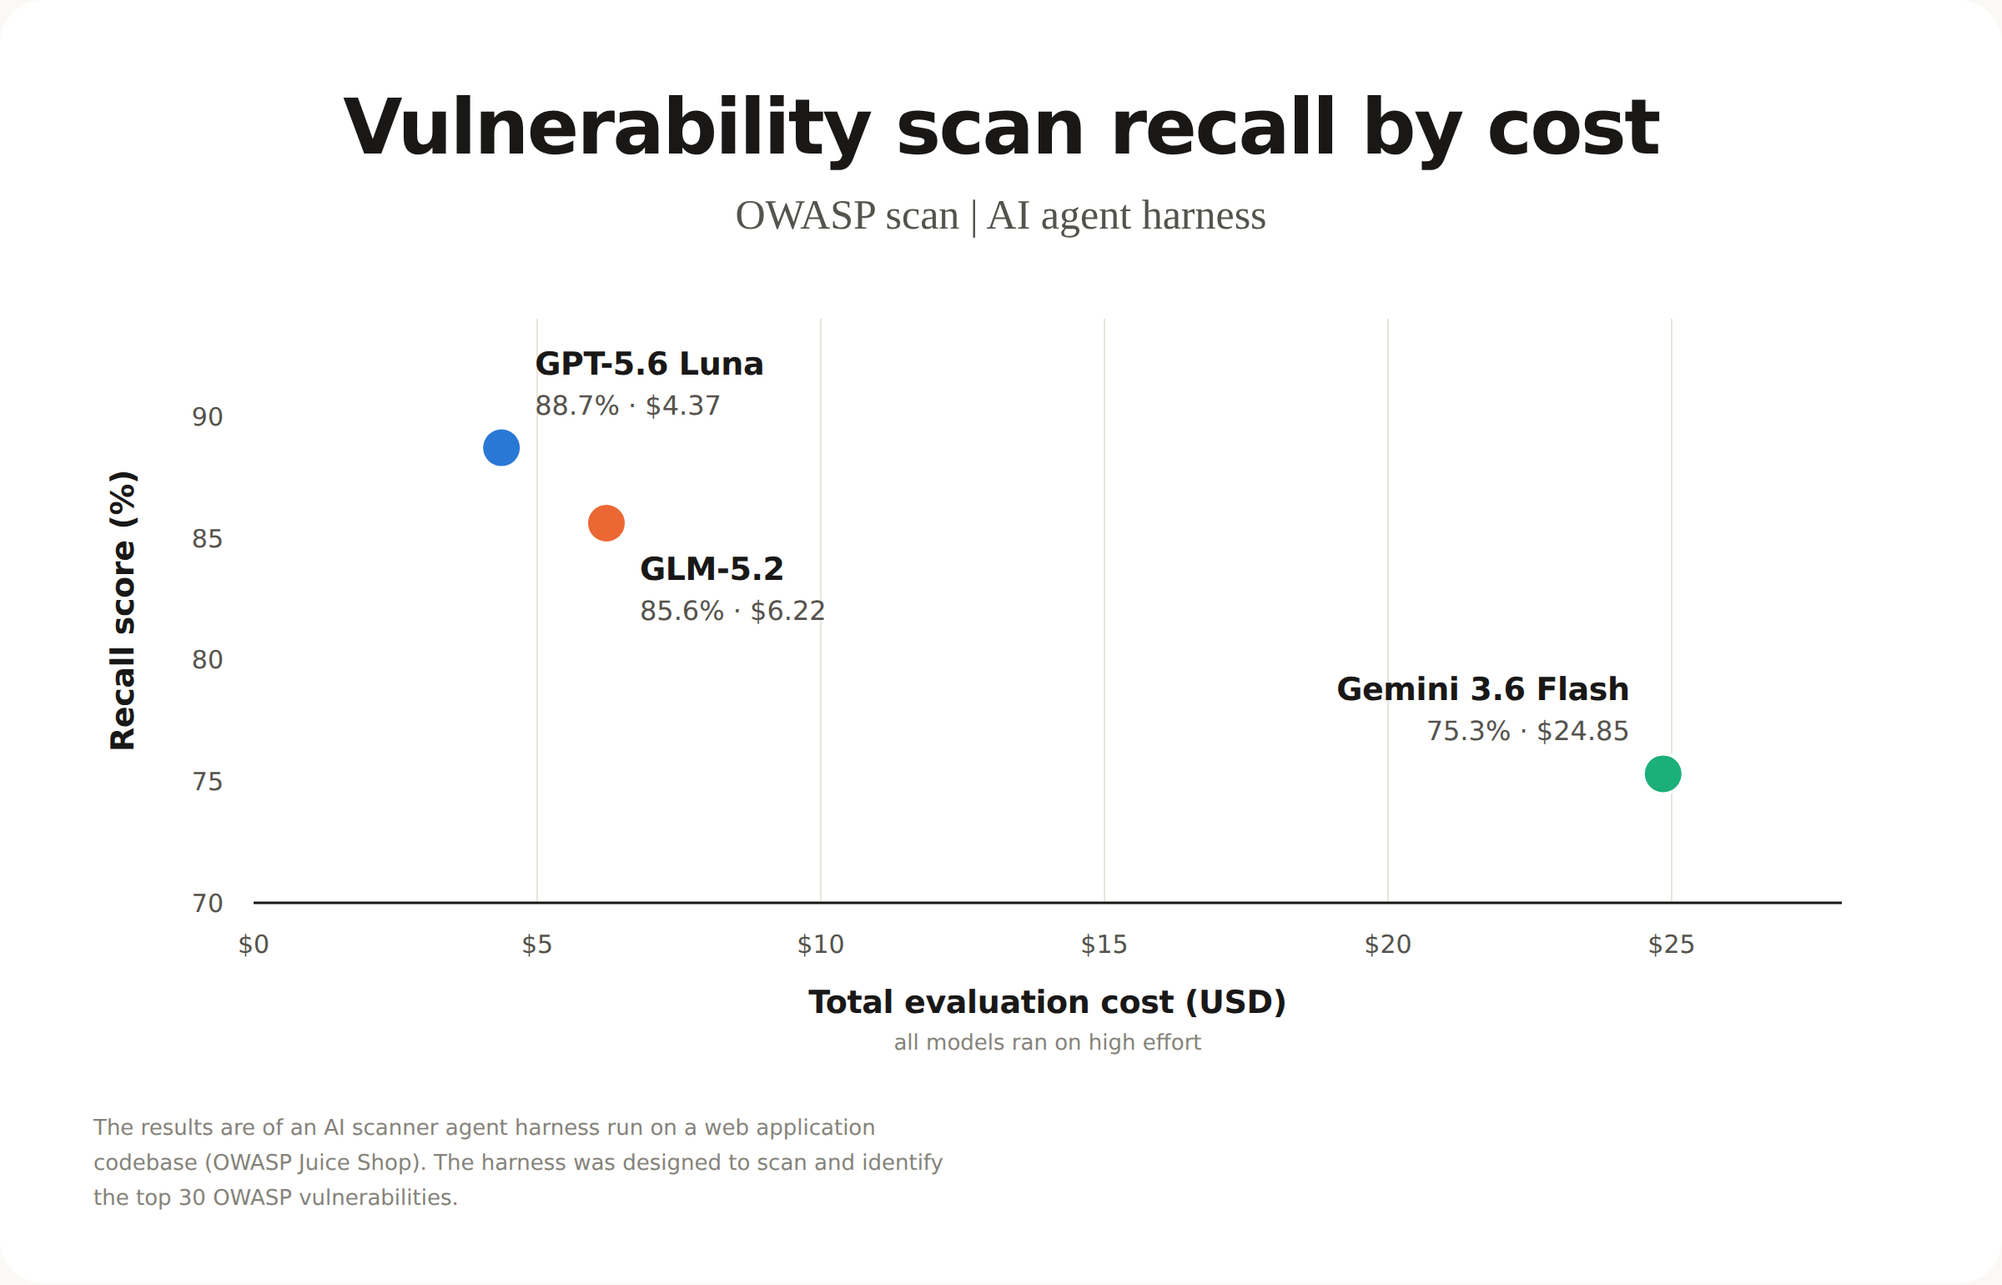
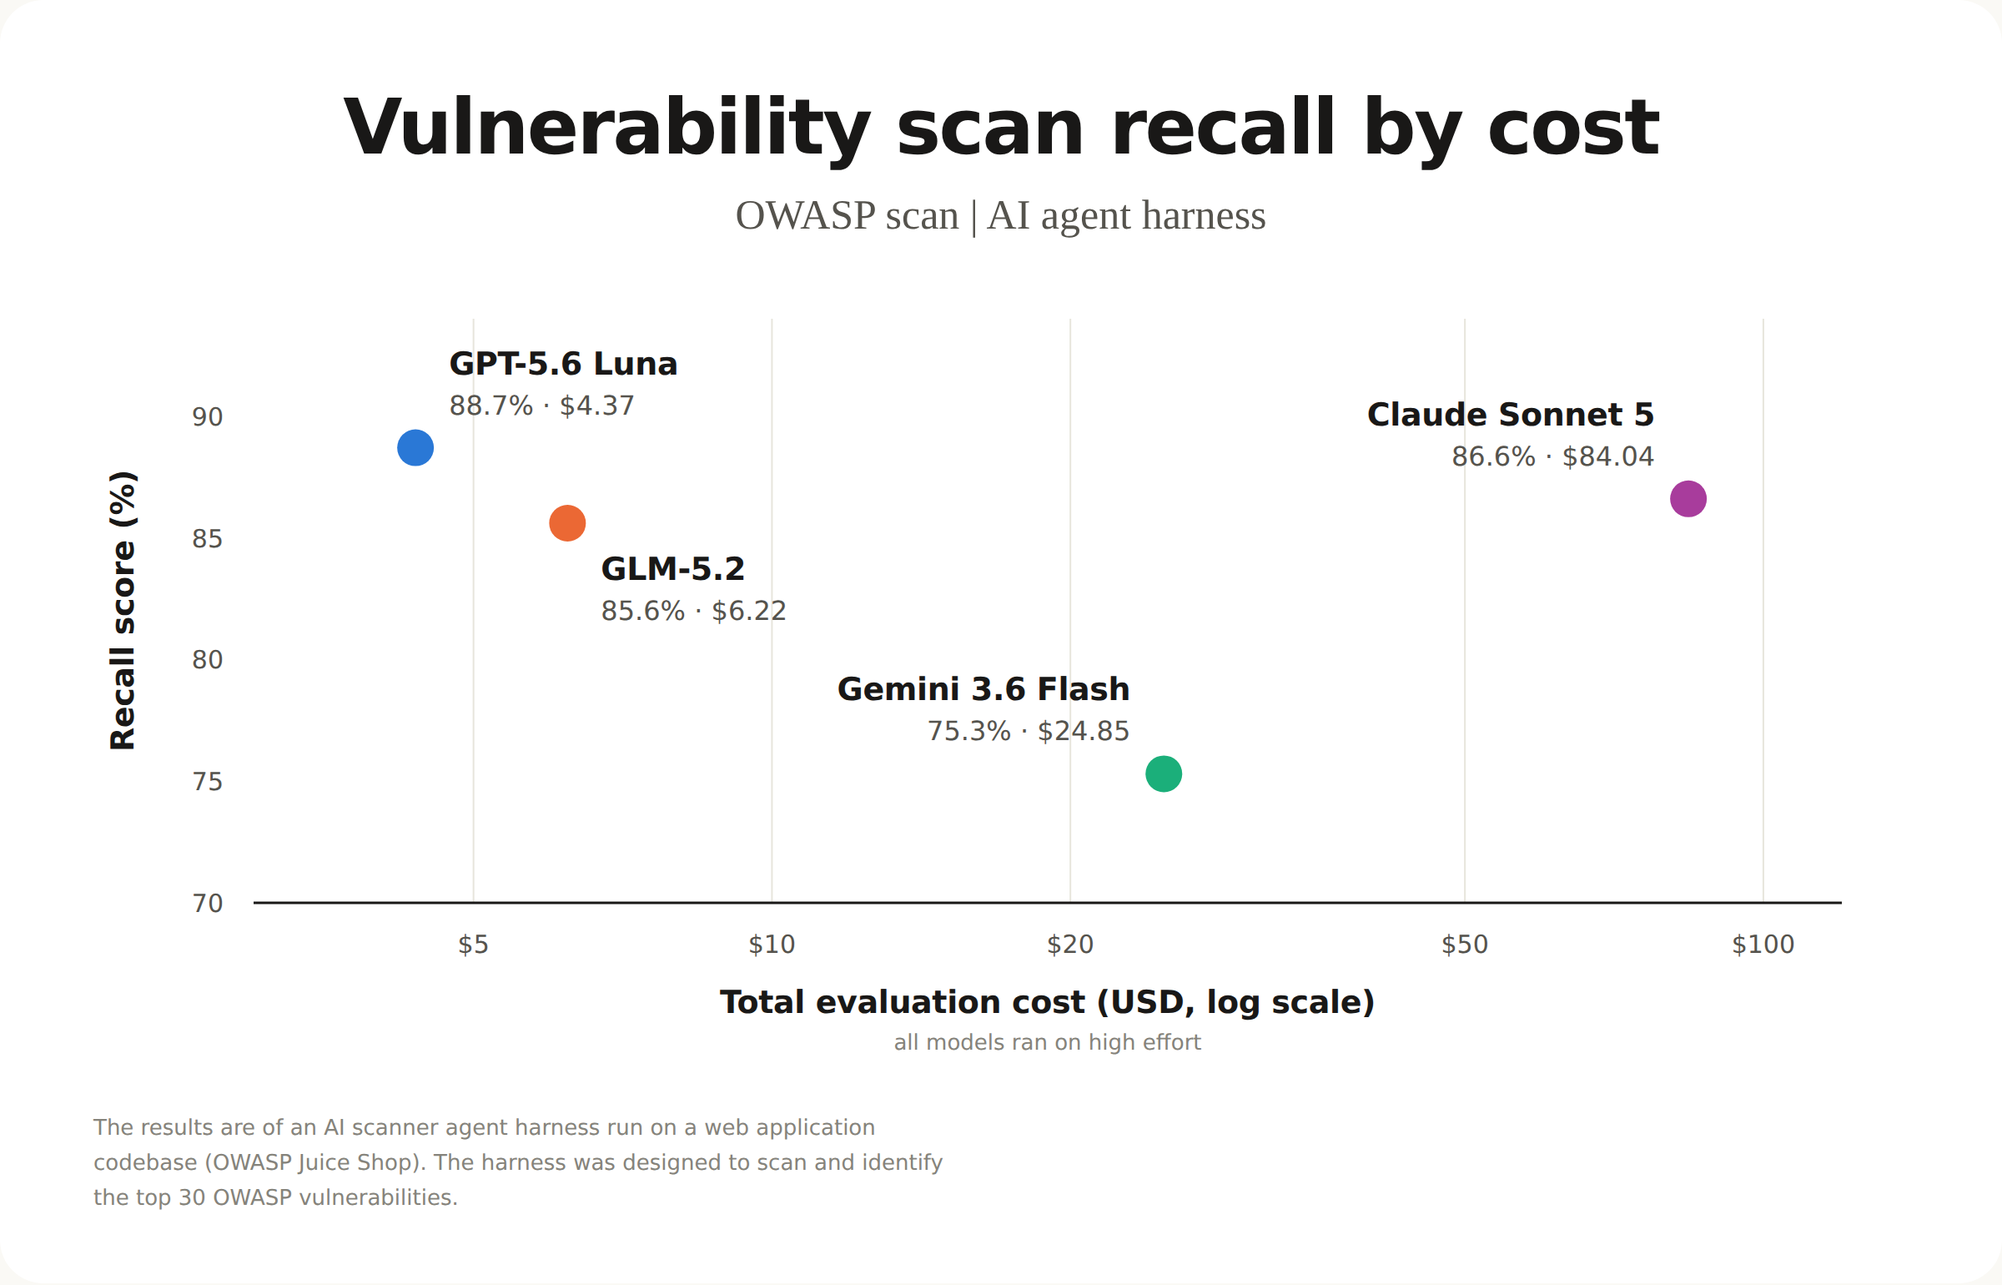
docs: add Claude Sonnet 5 to the recall-by-cost figure
Fourth point: 86.6% localization (84/97) at $84.04, $0.866 per
vulnerability. Ranks second on recall and last on cost efficiency.

Chart changes forced by the new point:
- Cost axis switched to log, and the axis label now says so. The four
  runs span $4.37 to $84.04; on the previous linear axis Luna and
  GLM-5.2 land 19px apart and their marks overlap.
- Fourth colour slot added. Blue/orange/aqua plus a fourth hue fails the
  all-pairs CVD gate in dark mode for every candidate in the documented
  ramp set, so the slot is #a83c9c light / #c45fb5 dark, both verified
  all-pairs-clean in their own mode against the other three.

UNRESOLVED, and flagged in post.md rather than smoothed over: the
$84.04 does not reconcile against the run's own cli-usage.jsonl.

Tokens do reconcile, exactly: 17,528,930 input (8,552,056 cache-read,
8,974,346 cache-write, 2,528 uncached) and 5,569,453 output, 23,098,383
total, matching the recorded row to the token.

Cost gives three different answers from the same artifact:
  $84.04   recorded in benchmarking-results.md — what the figure plots
  $79.85   registry rates applied to the artifact's own token split
  $139.96  the CLI's per-call costUSD fields, summed, Sonnet component

The recorded row also counts only the Sonnet 5 component. The CLI
transport additionally spent 4,143,486 input / 9,435 output tokens on
claude-haiku-4-5 ($4.19 by the CLI's own accounting), real spend on this
run that is not in the row. CLI total including it: $144.15.
[…]

diff --git a/docs/comms/linkedin-2026-08/recall-by-cost.html b/docs/comms/linkedin-2026-08/recall-by-cost.html
@@ -20,6 +20,7 @@
     --series-1:       #2a78d6;
     --series-2:       #eb6834;
     --series-3:       #1baf7a;
+    --series-4:       #a83c9c;
 
     --sans: ui-sans-serif, system-ui, -apple-system, "Segoe UI", Helvetica, Arial, sans-serif;
     --serif: "Iowan Old Style", "Palatino Linotype", Palatino, Georgia, "Times New Roman", serif;
@@ -42,6 +43,7 @@
       --series-1:       #3987e5;
       --series-2:       #d95926;
       --series-3:       #199e70;
+      --series-4:       #c45fb5;
     }
   }
   :root[data-theme="dark"] .viz-root {
@@ -56,6 +58,7 @@
     --series-1:       #3987e5;
     --series-2:       #d95926;
     --series-3:       #199e70;
+    --series-4:       #c45fb5;
   }
 
   .stack { max-width: 1240px; margin: 0 auto; padding: 28px 20px 64px; }
@@ -125,11 +128,12 @@
 
     <details class="tv"><summary>Table view</summary>
       <table>
-        <thead><tr><th>Model</th><th>Recall score</th><th>Total evaluation cost</th><th>Cost per vulnerability</th></tr></thead>
+        <thead><tr><th>Model</th><th>Recall score</th><th>Total evaluation cost</th><th>Cost per vulnerability</th><th>Total tokens</th><th>Cost basis</th></tr></thead>
         <tbody>
-          <tr><td>GPT-5.6 Luna</td><td>88.7% (86/97)</td><td>$4.37</td><td>$0.045</td></tr>
-          <tr><td>GLM-5.2</td><td>85.6% (83/97)</td><td>$6.22</td><td>$0.064</td></tr>
-          <tr><td>Gemini 3.6 Flash</td><td>75.3% (73/97)</td><td>$24.85</td><td>$0.256</td></tr>
+          <tr><td>GPT-5.6 Luna</td><td>88.7% (86/97)</td><td>$4.37</td><td>$0.045</td><td>9,618,943</td><td>metered API spend</td></tr>
+          <tr><td>Claude Sonnet 5</td><td>86.6% (84/97)</td><td>$84.04</td><td>$0.866</td><td>23,098,383</td><td>CLI transport — see note</td></tr>
+          <tr><td>GLM-5.2</td><td>85.6% (83/97)</td><td>$6.22</td><td>$0.064</td><td>9,668,297</td><td>self-hosted estimate</td></tr>
+          <tr><td>Gemini 3.6 Flash</td><td>75.3% (73/97)</td><td>$24.85</td><td>$0.256</td><td>9,381,580</td><td>metered API spend</td></tr>
         </tbody>
       </table>
     </details>
@@ -144,9 +148,10 @@
              9,668,297 tokens x $0.643/MTok (8xH200 vLLM FP8 at 73% utilisation).
    Cost per vulnerability = cost / 97. Computed, not plotted. */
 const MODELS = [
-  { name:'GPT-5.6 Luna',     cost:4.37,  recall:88.7, hits:86, tokens:'9,618,943', costBasis:'metered API spend',  slot:1 },
-  { name:'GLM-5.2',          cost:6.22,  recall:85.6, hits:83, tokens:'9,668,297', costBasis:'self-hosted equivalent', slot:2 },
-  { name:'Gemini 3.6 Flash', cost:24.85, recall:75.3, hits:73, tokens:'9,381,580', costBasis:'metered API spend',  slot:3 },
+  { name:'GPT-5.6 Luna',     cost:4.37,  recall:88.7, hits:86, tokens:'9,618,943',  costBasis:'metered API spend',      slot:1 },
+  { name:'GLM-5.2',          cost:6.22,  recall:85.6, hits:83, tokens:'9,668,297',  costBasis:'self-hosted equivalent', slot:2 },
+  { name:'Gemini 3.6 Flash', cost:24.85, recall:75.3, hits:73, tokens:'9,381,580',  costBasis:'metered API spend',      slot:3 },
+  { name:'Claude Sonnet 5',  cost:84.04, recall:86.6, hits:84, tokens:'23,098,383', costBasis:'CLI transport',          slot:4 },
 ];
 
 const NS = 'http://www.w3.org/2000/svg';
@@ -159,21 +164,22 @@ const S = i => `var(--series-${i})`;
   const W = 1088, H = 470;
   const M = { t: 24, r: 40, b: 96, l: 96 };
   const x0 = M.l, x1 = W - M.r, y0 = M.t, y1 = H - M.b;
-  const XD = [0, 28], YD = [70, 94];
-  const sx = v => x0 + (v - XD[0]) / (XD[1] - XD[0]) * (x1 - x0);
+  /* Log cost axis: the four runs span $4.37 to $84.04, a 19x range. On a linear
+     axis Luna and GLM-5.2 land 19px apart and their marks overlap. */
+  const XD = [3, 120], YD = [70, 94];
+  const lg = Math.log;
+  const sx = v => x0 + (lg(v) - lg(XD[0])) / (lg(XD[1]) - lg(XD[0])) * (x1 - x0);
   const sy = v => y1 - (v - YD[0]) / (YD[1] - YD[0]) * (y1 - y0);
 
   const svg = el('svg', { viewBox: `0 0 ${W} ${H}`, role: 'img',
-    'aria-label': 'Recall score against total evaluation cost. GPT-5.6 Luna 88.7 percent at $4.37. GLM-5.2 85.6 percent at $6.22. Gemini 3.6 Flash 75.3 percent at $24.85.' });
+    'aria-label': 'Recall score against total evaluation cost. GPT-5.6 Luna 88.7 percent at $4.37. Claude Sonnet 5 86.6 percent at $84.04. GLM-5.2 85.6 percent at $6.22. Gemini 3.6 Flash 75.3 percent at $24.85.' });
 
   /* vertical hairline grid */
-  for (let v = 5; v <= 25; v += 5) {
+  [5, 10, 20, 50, 100].forEach(v => {
     svg.appendChild(el('line', { x1: sx(v), x2: sx(v), y1: y0, y2: y1, stroke: 'var(--grid)', 'stroke-width': 1 }));
-  }
-  for (let v = 0; v <= 25; v += 5) {
     svg.appendChild(txt('$' + v, { x: sx(v), y: y1 + 30, 'text-anchor': 'middle', 'font-size': 15,
       fill: 'var(--text-secondary)', 'font-variant-numeric': 'tabular-nums' }));
-  }
+  });
 
   /* y ticks, no y rule */
   for (let v = 70; v <= 90; v += 5) {
@@ -185,7 +191,7 @@ const S = i => `var(--series-${i})`;
   svg.appendChild(el('line', { x1: x0, x2: x1, y1: y1, y2: y1, stroke: 'var(--axis)', 'stroke-width': 1.6 }));
 
   /* axis titles */
-  svg.appendChild(txt('Total evaluation cost (USD)', { x: (x0 + x1) / 2, y: y1 + 66,
+  svg.appendChild(txt('Total evaluation cost (USD, log scale)', { x: (x0 + x1) / 2, y: y1 + 66,
     'text-anchor': 'middle', 'font-size': 19, 'font-weight': 700, fill: 'var(--text-primary)',
     'letter-spacing': '-0.01em' }));
   svg.appendChild(txt('all models ran on high effort', { x: (x0 + x1) / 2, y: y1 + 88,
@@ -196,9 +202,10 @@ const S = i => `var(--series-${i})`;
 
   /* direct labels — placed to keep the two low-cost points apart */
   const LBL = [
-    { i: 0, dx:  20, dy: -44, anchor: 'start' },  /* Luna   — above right */
-    { i: 1, dx:  20, dy:  34, anchor: 'start' },  /* GLM    — below right */
-    { i: 2, dx: -20, dy: -44, anchor: 'end'   },  /* Gemini — above left  */
+    { i: 0, dx:  20, dy: -44, anchor: 'start' },  /* Luna     — above right */
+    { i: 1, dx:  20, dy:  34, anchor: 'start' },  /* GLM      — below right */
+    { i: 2, dx: -20, dy: -44, anchor: 'end'   },  /* Gemini   — above left  */
+    { i: 3, dx: -20, dy: -44, anchor: 'end'   },  /* Sonnet 5 — above left  */
   ];
   LBL.forEach(({ i, dx, dy, anchor }) => {
     const m = MODELS[i], px = sx(m.cost), py = sy(m.recall);

diff --git a/docs/comms/linkedin-2026-08/post.md b/docs/comms/linkedin-2026-08/post.md
@@ -2,37 +2,76 @@
 
 | File | Use |
 |---|---|
-| `recall-by-cost.png` | **The figure.** Recall score by total evaluation cost. |
+| `recall-by-cost.png` | **The figure.** Recall score by total evaluation cost, four models. |
 | `recall-by-cost.html` | Source, with tooltips and a table view. Re-render snippet at the bottom. |
+
+## The table
+
+| Model | Recall (±15 lines) | Cost | Cost per vulnerability | Total tokens |
+|---|---|---|---|---|
+| GPT-5.6 Luna | 88.7% (86/97) | $4.37 | **$0.045** | 9,618,943 |
+| Claude Sonnet 5 | 86.6% (84/97) | $84.04 | **$0.866** | 23,098,383 |
+| GLM-5.2 | 85.6% (83/97) | $6.22 | **$0.064** | 9,668,297 |
+| Gemini 3.6 Flash | 75.3% (73/97) | $24.85 | **$0.256** | 9,381,580 |
+
+Cost per vulnerability is cost ÷ 97. Computed for the table; deliberately not plotted.
 
 ## What the two axes mean
 
 **Recall score** is the *localization* row of `docs/benchmarking-results.md` — the
 scanner named the vulnerability within ±15 lines of its ground-truth location, over the
 97 reachable entries. It is deliberately not the stricter exact-line-plus-correct-OWASP-category
-row, which reads 71.1 / 67.0 / 58.8 and is a harder bar than most commercial scanners
-report against. Say which one you mean if anyone asks — both are in the record.
-
-| Model | Recall (±15 lines) | Cost | Cost per vulnerability |
-|---|---|---|---|
-| GPT-5.6 Luna | 88.7% (86/97) | $4.37 | $0.045 |
-| GLM-5.2 | 85.6% (83/97) | $6.22 | $0.064 |
-| Gemini 3.6 Flash | 75.3% (73/97) | $24.85 | $0.256 |
+row, which reads 71.1 / 66.0 / 67.0 / 58.8 and is a harder bar than most commercial
+scanners report against. Say which one you mean if anyone asks — both are in the record.
 
 **Cost** is metered run spend for Luna and Gemini, straight from each run's usage
-artifact. **GLM-5.2 is the self-hosted equivalent, not what the run was billed.** The
-run was billed $17.01 against Z.ai's API. GLM-5.2 ships MIT-licensed open weights (753B
-MoE, 40B active, ~750GB at FP8 → an 8×H200 node), so $6.22 = the run's 9,668,297 tokens
-× $0.643/MTok, an 8×H200 vLLM FP8 figure at 73% utilization.
+artifact. Two rows carry qualifications:
 
-**That $0.643 is a transferred number.** It is measured on a 70B dense model, not a
-753B MoE, and it assumes a utilization level this run never actually sustained. It is an
-estimate of what self-hosting *would* cost, not a measurement of what anything did cost.
-If someone in the comments pushes on it, that is the honest answer — and the two
-alternatives are the $17.01 metered figure or ~$14.11 at the cheapest published
-third-party rate for the same weights.
+- **GLM-5.2's $6.22 is a self-hosted equivalent, not what the run was billed.** The run
+  was billed $17.01 against Z.ai's API. GLM-5.2 ships MIT-licensed open weights (753B
+  MoE, 40B active, ~750GB at FP8 → an 8×H200 node), so $6.22 = the run's 9,668,297
+  tokens × $0.643/MTok, an 8×H200 vLLM FP8 figure at 73% utilization. That rate is
+  transferred from a 70B dense model and assumes a utilization this run never sustained.
+  It estimates what self-hosting *would* cost. Alternatives if challenged: $17.01 metered,
+  or ~$14.11 at the cheapest published third-party rate for the same weights.
 
-Cost per vulnerability is cost ÷ 97. Computed for reference; deliberately not plotted.
+- **Claude Sonnet 5 ran over the Claude Code CLI transport, not a direct API client**,
+  at concurrency 6 across four usage windows. See the open question below before citing
+  its $84.04.
+
+The x axis is **log scale**, and the label says so. The four runs span $4.37 to $84.04;
+on a linear axis Luna and GLM-5.2 land 19px apart and their marks overlap.
+
+## Open question on the Sonnet 5 cost — read before posting
+
+The token counts in the record reconcile exactly against the run's own
+`cli-usage.jsonl`: 17,528,930 input (8,552,056 cache-read, 8,974,346 cache-write,
+2,528 uncached) and 5,569,453 output, 23,098,383 total. Those are solid.
+
+**The $84.04 does not reconcile.** Three different figures are derivable from the same
+artifact:
+
+| Basis | Figure |
+|---|---|
+| Recorded in `benchmarking-results.md` | **$84.04** |
+| Registry rates ($2 / $0.20 cached / $2.50 cache-write / $10 out) applied to the artifact's token split | $79.85 |
+| The CLI's own per-call `costUSD` fields, summed, Sonnet 5 component only | $139.96 |
+
+Separately, the recorded row counts **only the Sonnet 5 component**. The CLI transport
+also spent 4,143,486 input and 9,435 output tokens on `claude-haiku-4-5` — $4.19 by the
+CLI's own accounting — which is real spend on this run and is not in the row. Including
+it, the CLI's total for the run is $144.15.
+
+The figure currently plots $84.04, the recorded value, because that is the citable
+number in the permanent record. If the CLI's own accounting is right, Sonnet 5's true
+position is roughly $144 and its cost per vulnerability is $1.49 rather than $0.866 —
+which strengthens rather than weakens the post's argument, but changes the number.
+Worth resolving before this goes out.
+
+Also in the record and worth knowing: of Sonnet 5's 1,322 lane calls, **229 terminated on
+`stop_sequence` rather than `tool_use`** and are recorded as refusals. A safety classifier
+declining a share of a defensive security-scanning workload is a genuinely interesting
+result, and it is not in any headline here.
 
 ---
 
@@ -59,25 +98,27 @@ Cost per vulnerability is cost ÷ 97. Computed for reference; deliberately not p
 > selection, budget projection, 541 parallel per-file hunt lanes with a two-turn trace loop,
 > validation. The inference model sits behind a registry, so swapping it is one JSON entry.
 >
-> Then I ran three models through it. Same pipeline, same 541 lanes, same 1,082 model calls,
-> same scorer, same 97-entry denominator, all three on high reasoning effort.
+> Then I ran four models through it. Same pipeline, same 541 lanes, same scorer, same 97-entry
+> denominator, all four on high reasoning effort.
 >
-> **The result I did not expect: cost and accuracy ran in opposite directions.** The cheapest
-> configuration found the most. GPT-5.6 Luna reached 88.7% recall for $4.37. Self-hosted
-> GLM-5.2 reached 85.6% for an estimated $6.22. Gemini 3.6 Flash, at $24.85 — four to five
-> times the price of either — found the least, at 75.3%.
+> **The result I did not expect: paying more bought less.** GPT-5.6 Luna found the most —
+> 88.7% — for $4.37. Claude Sonnet 5 came second at 86.6%, and cost $84.04 to get there.
+> Nineteen times the money for two points less. Self-hosted GLM-5.2 landed third at 85.6% for
+> an estimated $6.22. Gemini 3.6 Flash cost $24.85 and finished last at 75.3%.
 >
-> All three consumed 9.4–9.7M tokens doing it. The workload was identical. The price gap is
-> pricing, not effort.
+> Per vulnerability found, that is **4.5 cents against 86.6 cents** for the same job on the
+> same code.
 >
-> Per vulnerability, that is 4.5 cents against 25.6 cents — a 5.7× spread on the bill for a
-> 13-point deficit in what you get back.
+> Three of the four did genuinely identical work — 9.4 to 9.7M tokens each — so between them
+> the entire price spread is pricing, not effort. Sonnet was the exception: it spent 23M tokens
+> and emitted 1,270 findings against Luna's 553, and still didn't out-find it. More looking is
+> not more finding.
 >
-> **What it cost me to learn that:** roughly $36 in inference and several weeks of building
-> the measurement rather than the thing being measured. Which turned out to be the real
-> lesson. The scanner took days. A number I'd be willing to defend took weeks — the blind
-> split, the scoring harness, the denominator argument, and three separate incidents where
-> the answer key leaked into somewhere the agent could see it.
+> **What it cost me to learn that:** about $130 in inference, and several weeks building the
+> measurement rather than the thing being measured. That was the real lesson. The scanner took
+> days. A number I'd be willing to defend took weeks — the blind split, the scoring harness,
+> the denominator argument, and three separate incidents where the answer key leaked into
+> somewhere the agent could see it.
 >
 > If you are building agentic evals: the measurement infrastructure *is* the project.
 >
@@ -92,13 +133,16 @@ Cost per vulnerability is cost ÷ 97. Computed for reference; deliberately not p
 
 > The cheapest model in my security-scanner benchmark was also the most accurate.
 >
-> $4.37 and 88.7% recall, against $24.85 and 75.3% for the priciest — same pipeline, same
-> codebase, 9.4–9.7M tokens either way. The price spread was pricing, not effort. Per
-> vulnerability found: 4.5 cents against 25.6.
+> $4.37 and 88.7% recall. The runner-up scored 86.6% and cost $84.04 — nineteen times the
+> money for two points less. Per vulnerability found: 4.5 cents against 86.6 cents.
 >
 > I built the scanner against OWASP Juice Shop with every answer mechanically stripped into a
 > separate private repository, so neither the scanner nor the coding agent writing it could read
 > the ground truth. Scoring happens once, afterwards, by a script.
+>
+> Three of the four models consumed near-identical tokens, so between them the price spread is
+> pricing, not effort. The expensive one spent 23M tokens and emitted more than twice as many
+> findings as the winner — and still found less. More looking is not more finding.
 >
 > Getting that measurement honest took longer than building the thing being measured. The
 > answer key leaked into agent-readable space three separate times before the boundary held.
@@ -114,11 +158,11 @@ Cost per vulnerability is cost ÷ 97. Computed for reference; deliberately not p
 > sits in a denylisted file and is unreachable by construction, so it's excluded rather than
 > counted as a miss). Recall here is localization — the finding lands within ±15 lines of the
 > ground-truth location. On the stricter exact-line-plus-correct-OWASP-category scoring the
-> same runs read 71.1 / 67.0 / 58.8. Same scorer and denominator across all three. GLM-5.2's
-> cost is a self-hosted estimate on its open weights, not the $17.01 the API run was actually
-> billed. And the honest gap: high recall is the easy half — the best run emitted 553 findings
-> to land those 86, and the validation stage that would cut the noise isn't wired into this
-> pipeline track yet.
+> same four runs read 71.1 / 66.0 / 67.0 / 58.8. Same scorer and denominator across all four.
+> GLM-5.2's cost is a self-hosted estimate on its open weights, not the $17.01 the API run was
+> billed. Sonnet 5 ran over a CLI transport rather than a direct API client. And the honest
+> gap: high recall is the easy half — the best run emitted 553 findings to land those 86, and
+> the validation stage that would cut the noise isn't wired into this pipeline track yet.
 
 ---
 
